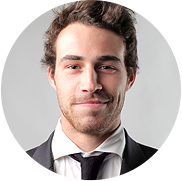
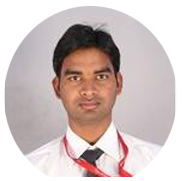
jaras2

diff --git a/index.html b/index.html
@@ -1,7 +1,7 @@
 <!DOCTYPE html>
 <html lang="en">
   <head>
-		<title>Mobilophilia</title>
+		<title>Timber</title>
 		<meta charset="utf-8" />
 		<meta name="viewport" content="width=device-width, initial-scale=1.0">
 		<link rel="stylesheet" type="text/css" href="css/bootstrap.css">
@@ -170,8 +170,8 @@
 			<div class="row team">
 				<div class="col-md-4 b1">
 						<img class="img-responsive" src="images/picTeam/picT1.png">
-						<h4>Tom Simpson</h4>
-						<h5>CEO</h5>
+						<h4>Harsh Kumar</h4>
+						<h5>Product Manager</h5>
 						<p>Lorem ipsum dolor sit amet, consectetur adipiscing elit <br/>quisque tempus ac eget diam et laoreet phasellus ut nisi id leo molestie. adipiscing vitae vel quam proin eget mauris eget.</p>
 						<ul>
 							<li><a href="#"><i class="fa fa-facebook-square"></i></a></li>
@@ -184,8 +184,8 @@
 			
 				<div class="col-md-4">
 						<img class="img-responsive" src="images/picTeam/picT2.png">
-						<h4>John Doe</h4>
-						<h5>Project Manager</h5>
+						<h4>Mukesh</h4>
+						<h5>Developer</h5>
 						<p>Lorem ipsum dolor sit amet, consectetur adipiscing elit<br/> quisque tempus ac eget diam et laoreet phasellus ut nisi id leo molestie. adipiscing vitae vel quam proin eget mauris eget.</p>
 						<ul>
 							<li><a href="#"><i class="fa fa-facebook-square"></i></a></li>
@@ -198,7 +198,7 @@
 			
 				<div class="col-md-4 b3">
 						<img class="img-responsive" src="images/picTeam/picT3.png">
-						<h4>Anna White</h4>
+						<h4>Mohsin Tariq</h4>
 						<h5>Developer</h5>
 						<p>Lorem ipsum dolor sit amet, consectetur adipiscing elit<br/> quisque tempus ac eget diam et laoreet phasellus ut nisi id leo molestie. adipiscing vitae vel quam proin eget mauris eget.</p>
 						<ul>
@@ -474,7 +474,9 @@
 						</div>
 					</div>			
 			</div>
-		<!--
+			
+			
+				
 					<div class="col-md-12 cBtn  lb" style="text-align: center;">
 						<ul class="load_more_cont ">
 							<li class="dowbload btn_load_more">
@@ -491,7 +493,7 @@
 					</div>
 			
 		</div>
-		-->	
+			
 			<script type="text/javascript">
 				jQuery(window).load(function(){
 					items_set = [
@@ -707,7 +709,7 @@
 				<h3>We Care About Our Clients and Can Make Their Life Easier!</h3>
 				<p>The main peculiarity of template is the striking presentation when visitors just need to use the scrolling option to find all necessary information about your web project. </p>
 				</div>
-				<!--
+			<!--
 				<div class="cBtn">
 					<ul style="margin-top: 23px; margin-bottom: 0px; padding-left: 26px;">
 						<li class="dowbload"><a href="#"><i class="fa fa-star"></i>View All Features</a></li>
@@ -754,7 +756,7 @@
 						<input  id="searchPattern" type="search" placeholder="Search the Site"/><i class="glyphicon glyphicon-search" style="font-size: 13px; color:#a5a5a5;" id="iS"></i>
 					</div>
 					<div class="col-md-6 text-left copy">
-						<p>Copyright &copy; 2014 Mobilophilia. All Rights Reserved.</p>
+						<p>Copyright &copy; 2014 Timber HTML Template. All Rights Reserved.</p>
 					</div>
 					<div class="col-md-6 text-right dm">
 						<ul id="downMenu">
